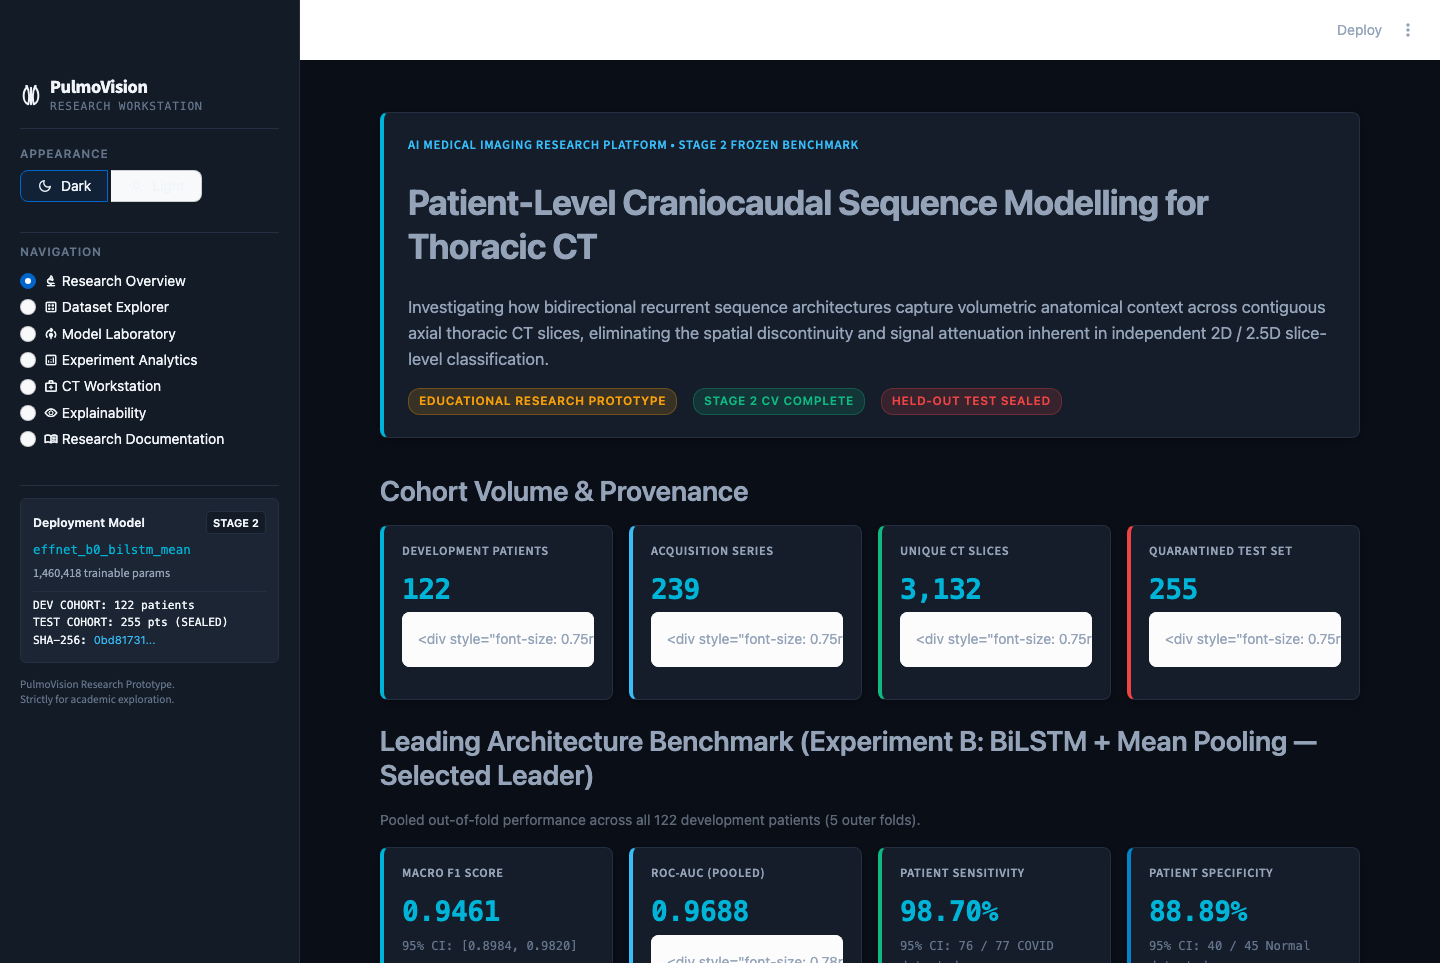
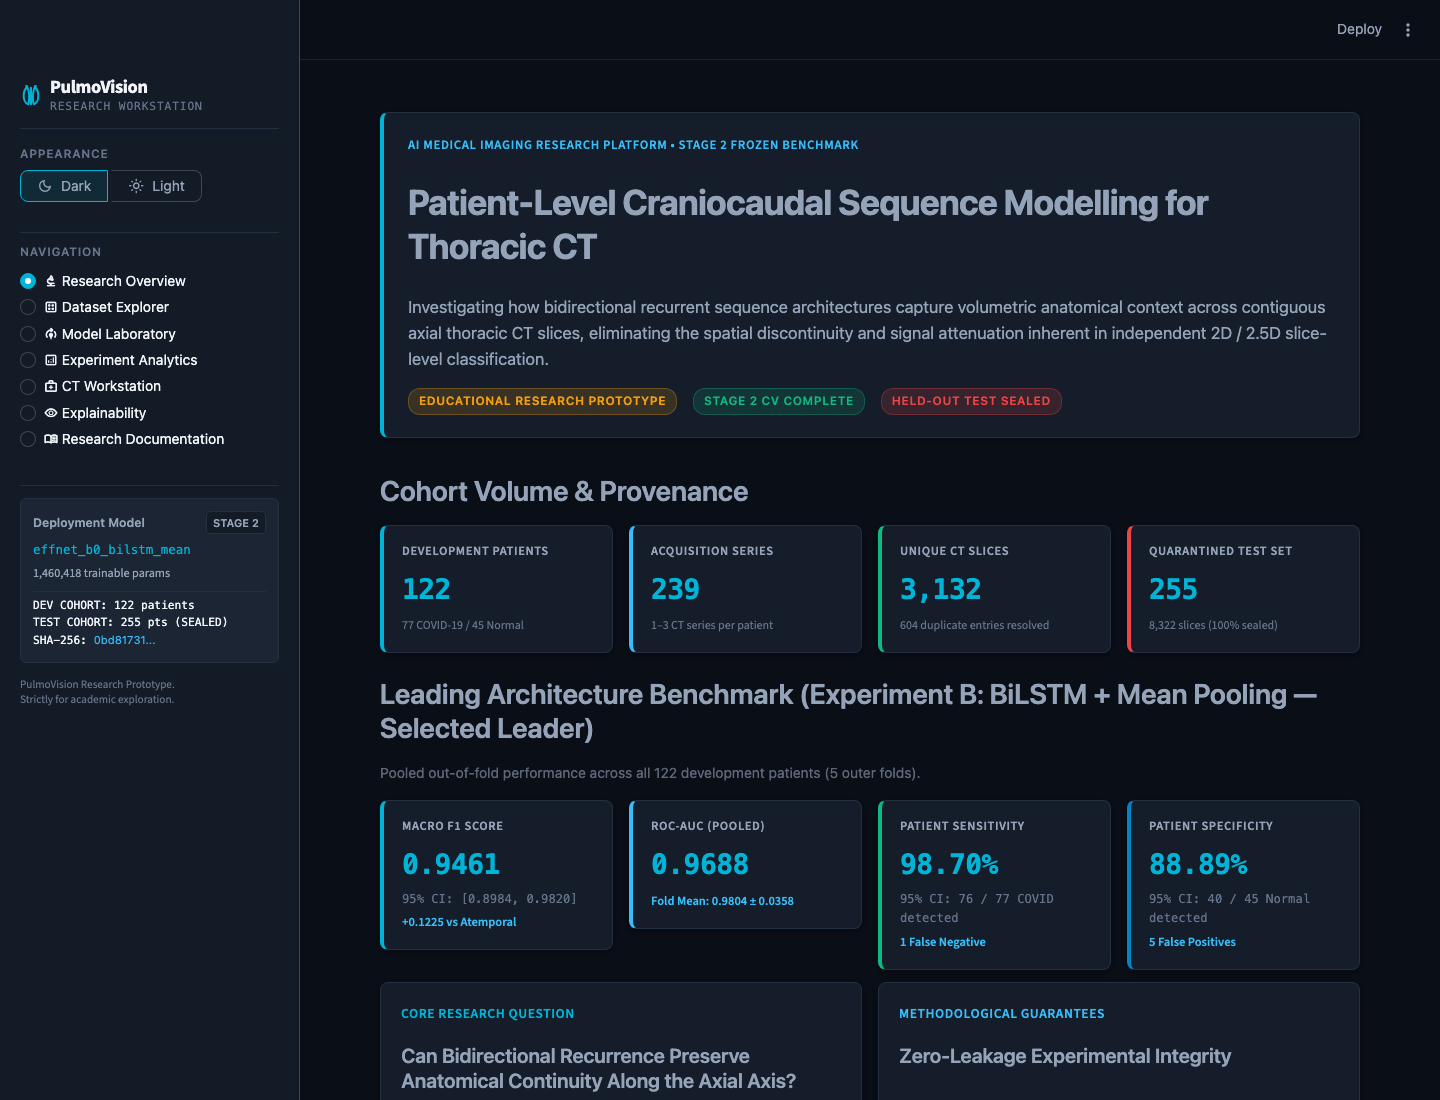
fix(ui): eliminate white widget background clashes and invisible text in dark mode

diff --git a/app/styles/theme.py b/app/styles/theme.py
@@ -49,12 +49,33 @@ def apply_theme(theme_name: str = "dark") -> None:
             font-family: var(--pv-font-sans);
         }}
 
+        /* Top Streamlit Header */
+        header[data-testid="stHeader"] {{
+            background-color: var(--pv-bg-app) !important;
+            border-bottom: 1px solid var(--pv-border-subtle) !important;
+        }}
+        header[data-testid="stHeader"] * {{
+            color: var(--pv-text-secondary) !important;
+        }}
+        [data-testid="stDecoration"] {{
+            display: none !important;
+        }}
+
         /* Sidebar Container */
         section[data-testid="stSidebar"] {{
-            background-color: var(--pv-bg-surface);
+            background-color: var(--pv-bg-surface) !important;
             border-right: 1px solid var(--pv-border);
         }}
-        section[data-testid="stSidebar"] * {{
+        section[data-testid="stSidebar"] p,
+        section[data-testid="stSidebar"] span,
+        section[data-testid="stSidebar"] label {{
+            color: var(--pv-text-secondary);
+        }}
+        section[data-testid="stSidebar"] h1,
+        section[data-testid="stSidebar"] h2,
+        section[data-testid="stSidebar"] h3,
+        section[data-testid="stSidebar"] h4,
+        section[data-testid="stSidebar"] strong {{
             color: var(--pv-text-primary);
         }}
 
@@ -86,10 +107,45 @@ def apply_theme(theme_name: str = "dark") -> None:
 
         /* Segmented Control Theme Switcher */
         [data-testid="stSegmentedControl"] {{
-            background-color: var(--pv-bg-elevated);
-            border: 1px solid var(--pv-border);
+            background-color: var(--pv-bg-elevated) !important;
+            border: 1px solid var(--pv-border) !important;
             border-radius: 6px;
             padding: 2px;
+        }}
+        [data-testid="stSegmentedControl"] button {{
+            background-color: transparent !important;
+            color: var(--pv-text-secondary) !important;
+            border: none !important;
+            border-radius: 4px !important;
+            font-weight: 500 !important;
+            font-size: 0.82rem !important;
+            transition: all 0.15s ease-in-out !important;
+        }}
+        [data-testid="stSegmentedControl"] button p,
+        [data-testid="stSegmentedControl"] button span {{
+            color: var(--pv-text-secondary) !important;
+        }}
+        [data-testid="stSegmentedControl"] button:hover {{
+            background-color: var(--pv-bg-card) !important;
+        }}
+        [data-testid="stSegmentedControl"] button:hover p,
+        [data-testid="stSegmentedControl"] button:hover span {{
+            color: var(--pv-text-primary) !important;
+        }}
+        [data-testid="stSegmentedControl"] button[aria-selected="true"],
+        [data-testid="stSegmentedControl"] button[data-checked="true"],
+        [data-testid="stSegmentedControl"] button[aria-checked="true"] {{
+            background-color: var(--pv-accent-primary) !important;
+            color: #ffffff !important;
+            font-weight: 600 !important;
+        }}
+        [data-testid="stSegmentedControl"] button[aria-selected="true"] p,
+        [data-testid="stSegmentedControl"] button[data-checked="true"] p,
+        [data-testid="stSegmentedControl"] button[aria-checked="true"] p,
+        [data-testid="stSegmentedControl"] button[aria-selected="true"] span,
+        [data-testid="stSegmentedControl"] button[data-checked="true"] span,
+        [data-testid="stSegmentedControl"] button[aria-checked="true"] span {{
+            color: #ffffff !important;
         }}
 
         /* Headers & Typography */
@@ -111,6 +167,95 @@ def apply_theme(theme_name: str = "dark") -> None:
 
         code, pre, .stCodeBlock {{
             font-family: var(--pv-font-mono) !important;
+        }}
+
+        /* Native Buttons & Download Buttons */
+        .stButton > button,
+        .stDownloadButton > button,
+        [data-testid="stDownloadButton"] > button {{
+            background-color: var(--pv-bg-elevated) !important;
+            color: var(--pv-text-primary) !important;
+            border: 1px solid var(--pv-border) !important;
+            border-radius: 6px !important;
+            font-weight: 500 !important;
+            padding: 6px 16px !important;
+            transition: all 0.15s ease-in-out !important;
+        }}
+        .stButton > button p,
+        .stDownloadButton > button p,
+        [data-testid="stDownloadButton"] > button p {{
+            color: var(--pv-text-primary) !important;
+        }}
+        .stButton > button:hover,
+        .stDownloadButton > button:hover,
+        [data-testid="stDownloadButton"] > button:hover {{
+            background-color: var(--pv-bg-card) !important;
+            border-color: var(--pv-accent-primary) !important;
+            color: var(--pv-accent-primary) !important;
+        }}
+        .stButton > button:hover p,
+        .stDownloadButton > button:hover p,
+        [data-testid="stDownloadButton"] > button:hover p {{
+            color: var(--pv-accent-primary) !important;
+        }}
+
+        /* Inputs & Textareas */
+        div[data-testid="stTextInput"] input,
+        div[data-testid="stNumberInput"] input,
+        div[data-testid="stTextArea"] textarea,
+        [data-baseweb="input"] {{
+            background-color: var(--pv-bg-card) !important;
+            color: var(--pv-text-primary) !important;
+            border: 1px solid var(--pv-border) !important;
+            border-radius: 6px !important;
+        }}
+        [data-baseweb="input"] input {{
+            color: var(--pv-text-primary) !important;
+            background-color: transparent !important;
+        }}
+        div[data-testid="stTextInput"] input::placeholder,
+        [data-baseweb="input"] input::placeholder {{
+            color: var(--pv-text-muted) !important;
+        }}
+        div[data-testid="stTextInput"] input:focus,
+        [data-baseweb="input"]:focus-within {{
+            border-color: var(--pv-accent-primary) !important;
+        }}
+
+        /* Selectbox & Popovers */
+        div[data-testid="stSelectbox"] > div > div,
+        [data-baseweb="select"] > div {{
+            background-color: var(--pv-bg-card) !important;
+            color: var(--pv-text-primary) !important;
+            border: 1px solid var(--pv-border) !important;
+            border-radius: 6px !important;
+        }}
+        [data-baseweb="select"] span,
+        [data-baseweb="select"] div {{
+            color: var(--pv-text-primary) !important;
+        }}
+        [data-baseweb="popover"],
+        ul[data-baseweb="menu"],
+        div[data-baseweb="popover"] > div {{
+            background-color: var(--pv-bg-surface) !important;
+            border: 1px solid var(--pv-border) !important;
+        }}
+        ul[data-baseweb="menu"] li,
+        div[data-baseweb="popover"] li {{
+            color: var(--pv-text-primary) !important;
+            background-color: transparent !important;
+        }}
+        ul[data-baseweb="menu"] li:hover,
+        div[data-baseweb="popover"] li:hover {{
+            background-color: var(--pv-bg-elevated) !important;
+            color: var(--pv-accent-primary) !important;
+        }}
+
+        /* Radio Buttons */
+        div[data-testid="stRadio"] label,
+        div[data-testid="stRadio"] label p,
+        div[data-testid="stRadio"] label span {{
+            color: var(--pv-text-primary) !important;
         }}
 
         /* Reusable Card Components */
@@ -219,14 +364,6 @@ def apply_theme(theme_name: str = "dark") -> None:
         .stTabs [aria-selected="true"] {{
             color: var(--pv-accent-primary) !important;
             border-bottom-color: var(--pv-accent-primary) !important;
-        }}
-
-        /* Button customization */
-        .stButton>button {{
-            border-radius: 6px;
-            font-weight: 600;
-            padding: 8px 18px;
-            transition: all 0.15s ease-in-out;
         }}
     </style>
     """
